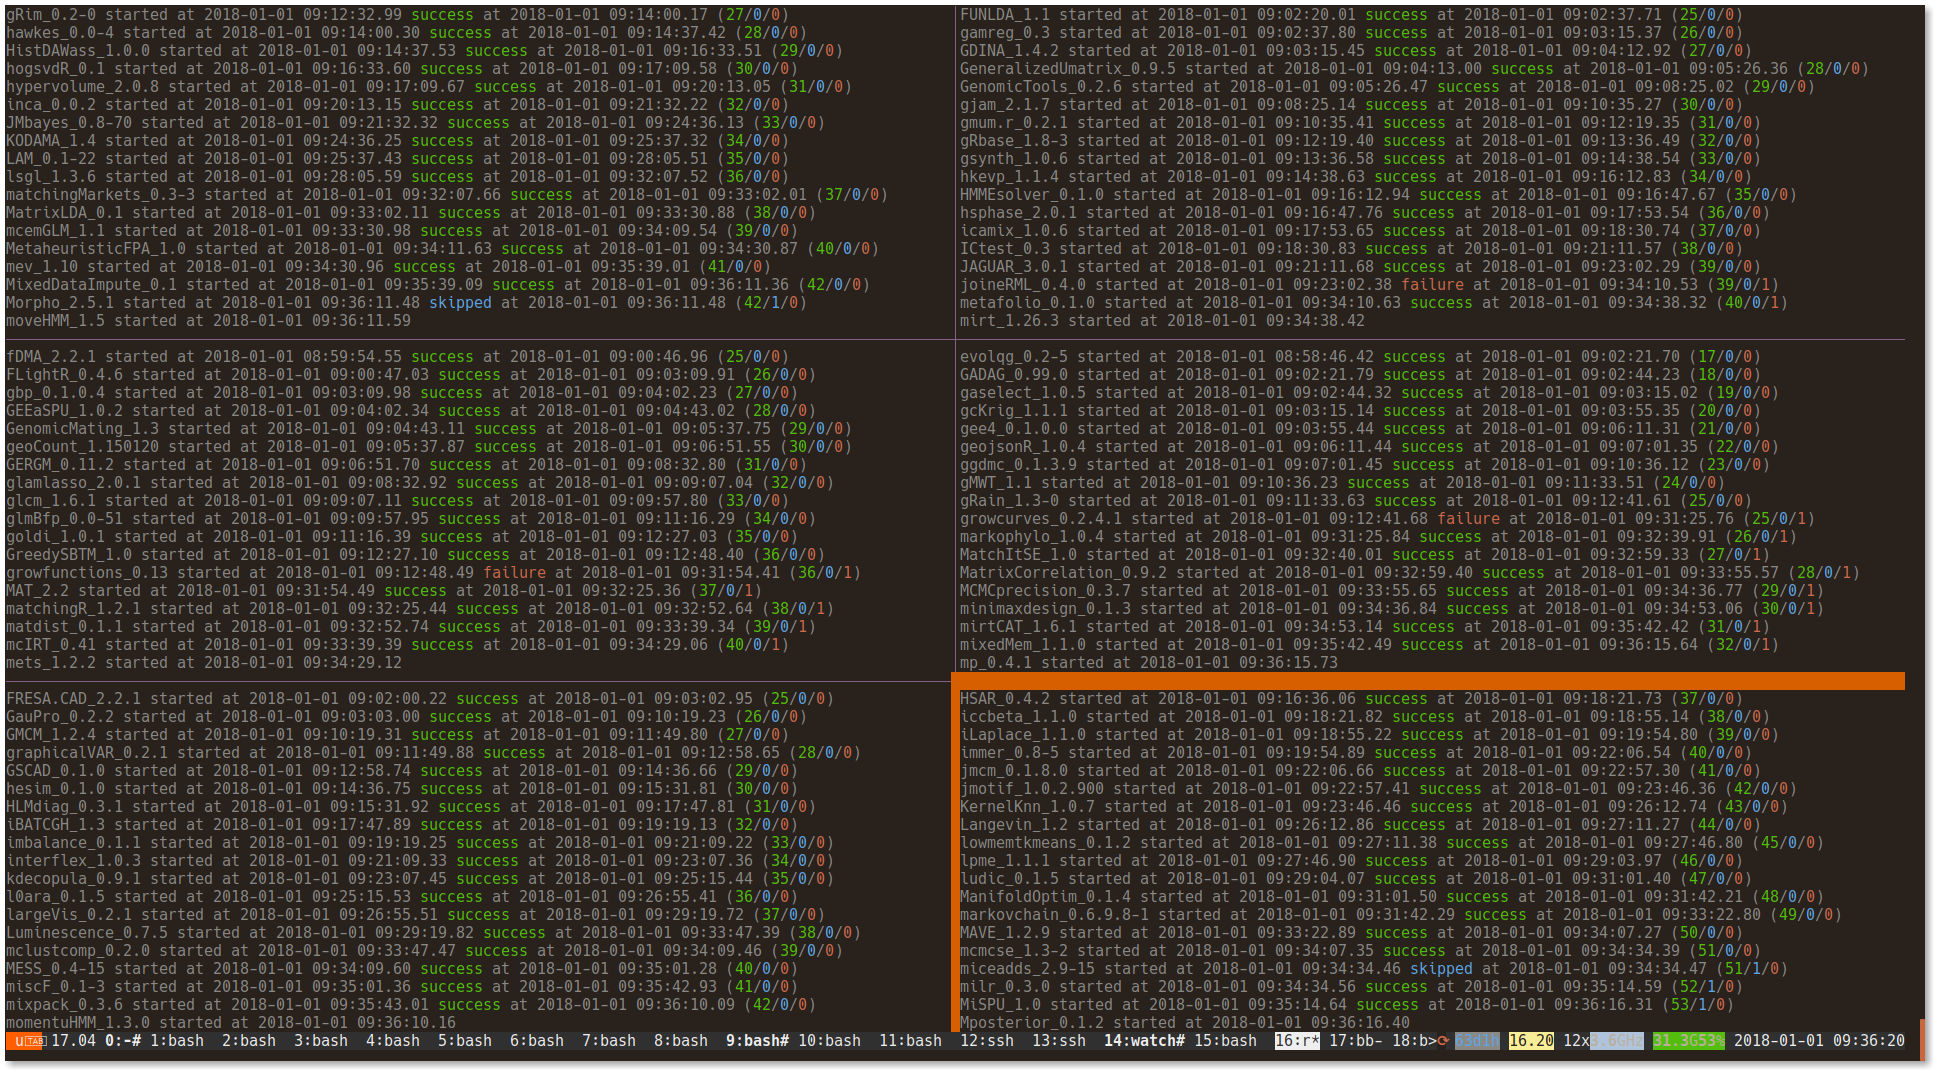
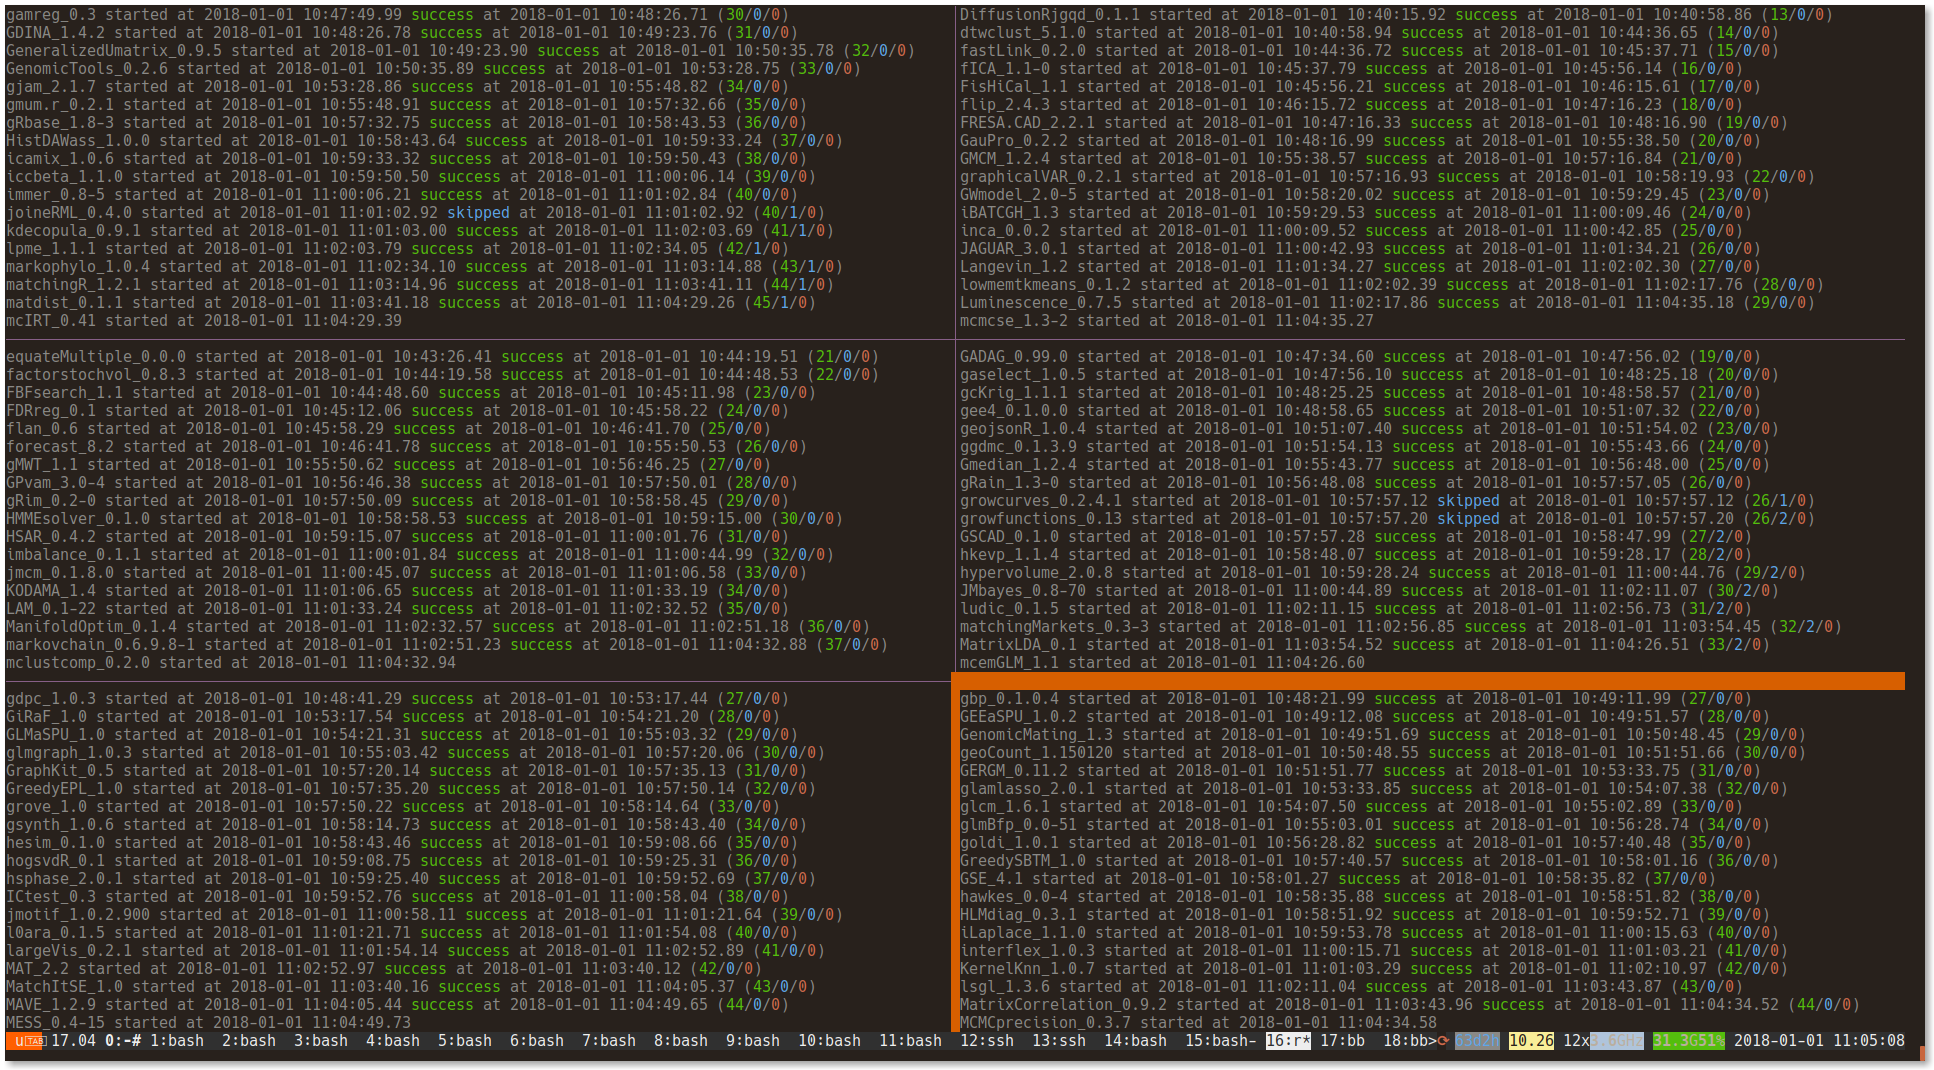
updated README and screen shot

Changed region(s): [[0.0, 0.0, 0.4654, 0.9869], [0.4964, 0.0, 0.9617, 0.9869], [0.9617, 0.9561, 1.0, 0.9869]]

diff --git a/README.md b/README.md
@@ -61,15 +61,16 @@ To illustrate, "wall time" for a reverse-dependecy check of
 [Rcpp](http://dirk.eddelbuettel.com/code/rcpp.html) decreased from 14.91 hours to 3.75 hours (or
 almost four-fold) using six workers. An earlier run of
 [RcppArmadillo](http://dirk.eddelbuettel.com/code/rcpp.armadillo.html) decreased from 5.87 hours to
-1.92 hours (or just over three-fold) using four workers. In all cases the machine was used which was
-generally not idle.
+1.92 hours (or just over three-fold) using four workers, and to 1.29 hours (or by 4.5) using six
+workers (and a fresh `ccache`, see
+[here](http://dirk.eddelbuettel.com/blog/2017/11/27#011_faster_package_installation_one) for its
+impact).  In all cases the machine was used which was generally not idle.
 
 The following screenshot shows a run for
 [RcppArmadillo](http://dirk.eddelbuettel.com/code/rcpp.armadillo.html) with six workers. It shows
-the successes in green, skipped jobs in blue and three failures from runaway jobs I killed after
-several minutes.
+the successes in green, skipped jobs in blue (from packages which sometimes would result in runaway tests) and no failures (which would be shown in red).
 
-![](local/screenshot_prrd_rcpparmadillo.png)
+![](https://github.com/eddelbuettel/prrd/raw/master/local/screenshot_prrd_rcpparmadillo.png)
 
 The split screen, as well as the additional tabls, is thanks to the wonderful
 [byobu](http://byobu.co) wrapper around [tmux](https://github.com/tmux/tmux).
